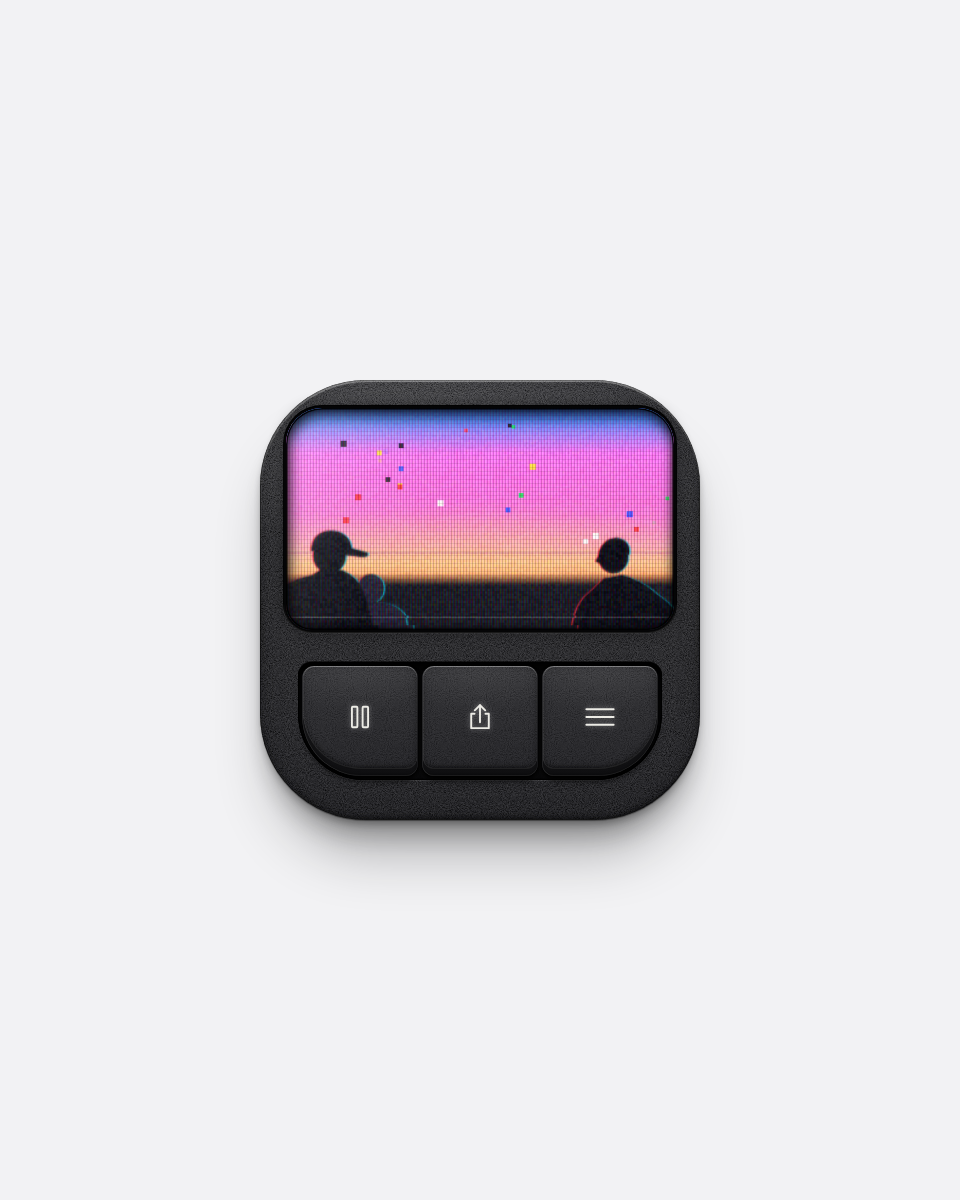
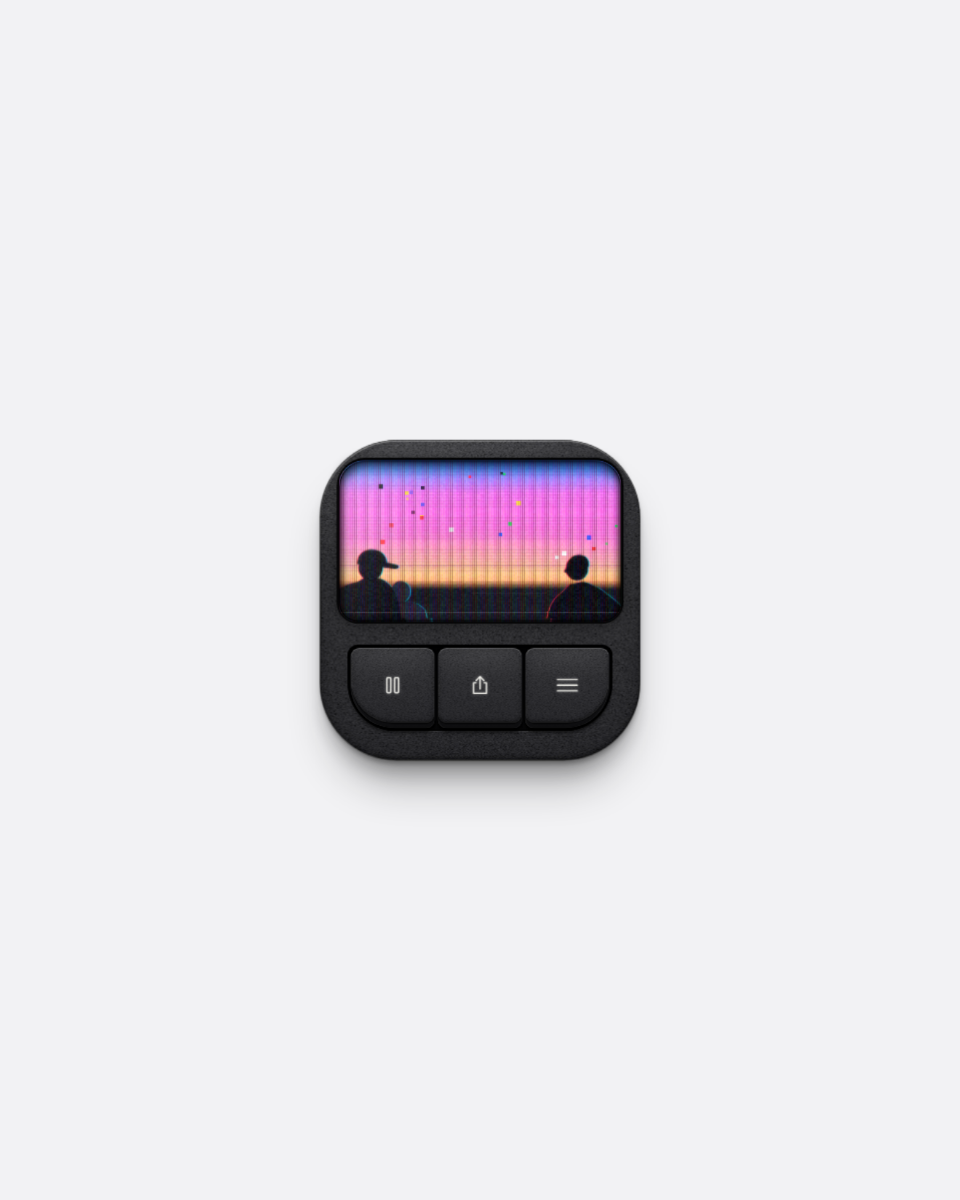
VHS Deck: cap the device at 320px [skip deploy]

Changed region(s): [[0.25, 0.3083, 0.75, 0.74]]

diff --git a/components/control/vhs-deck/vhs-deck.tsx b/components/control/vhs-deck/vhs-deck.tsx
@@ -20,6 +20,9 @@ export type VhsDeckProps = {
 /** The device's true size. It is scaled down to fit whatever it is put in. */
 const DECK = 440;
 
+/** The largest it is ever shown, however much room it has. */
+const MAX_SIZE = 320;
+
 /** The tape's own resolution. Drawn small and scaled up, the way a CRT would. */
 const W = 320;
 const H = 183;
@@ -359,7 +362,7 @@ export function VhsDeck({ className }: VhsDeckProps) {
     const fit = fitRef.current;
     if (!host || !fit) return;
     const apply = () => {
-      const scale = Math.min(1, (host.clientWidth - 24) / DECK, (host.clientHeight - 24) / DECK);
+      const scale = Math.min(MAX_SIZE / DECK, (host.clientWidth - 24) / DECK, (host.clientHeight - 24) / DECK);
       fit.style.transform = `scale(${Math.max(0.3, scale).toFixed(4)})`;
     };
     apply();
